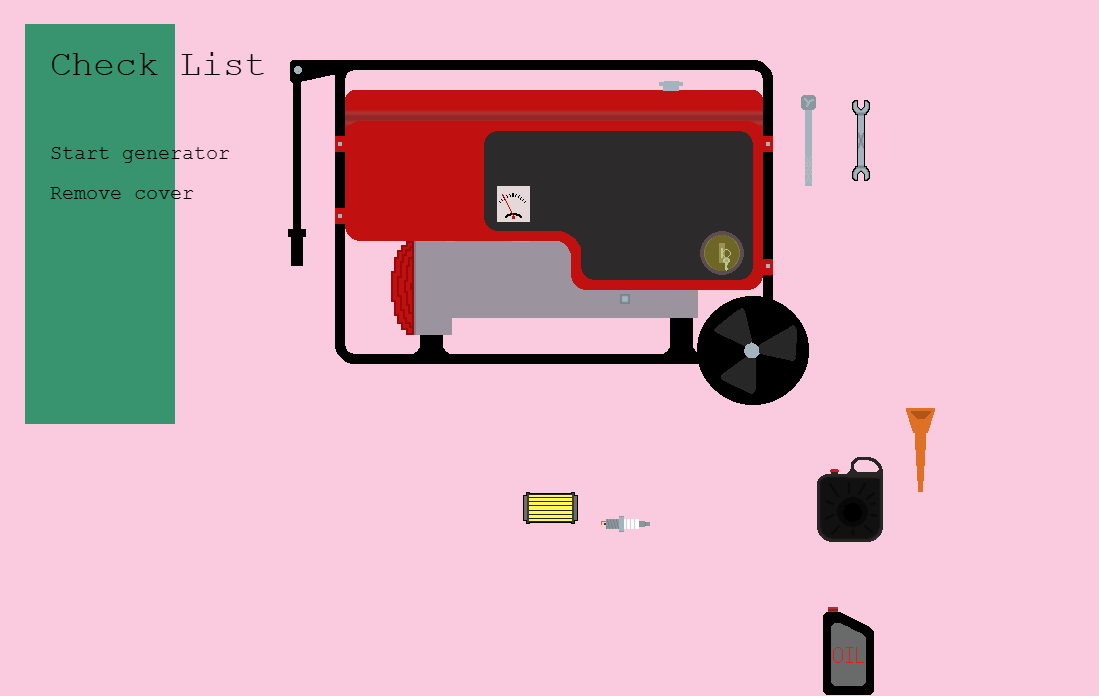
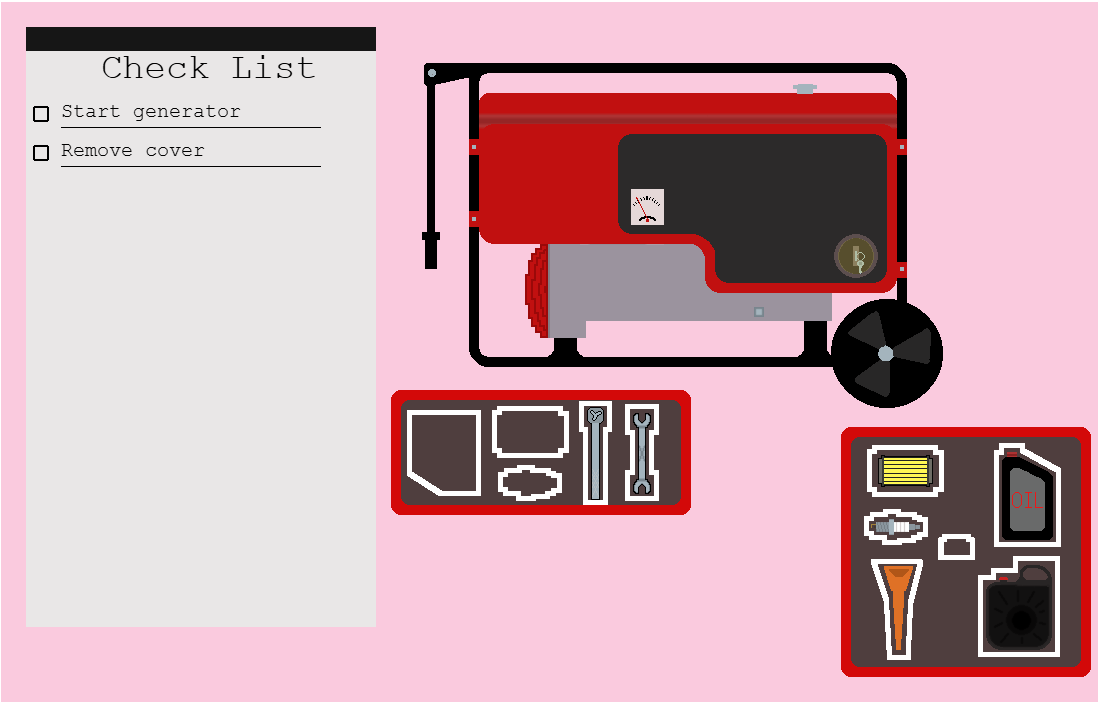
Added placemat for tools, dirty airfilter, and dirty sparkplug

diff --git a/src/prefabs/generator.js b/src/prefabs/generator.js
@@ -54,6 +54,7 @@ class Generator extends Phaser.GameObjects.Sprite {
         this.socketWrenchSound = this.scene.sound.add('socketwrench', {loop: true});
 
         this.placematParts = this.scene.add.sprite(840, 425, 'placematParts').setOrigin(0);
+        this.placematTools = this.scene.add.sprite(540, 450, 'placematTools');
 
         //Key mechanics add interative circle and progress circle
         this.keyhole = this.scene.add.circle(width * .78 - 3, 254, 18, 0xffff00, .25).setInteractive().setDepth(101);
@@ -113,13 +114,13 @@ class Generator extends Phaser.GameObjects.Sprite {
         this.airFilterDirty = this.scene.add.sprite(this.generatorImage.x -161, this.generatorImage.y + 105, 'airFilter', 2).setInteractive().setOrigin(0.5, 0);
         this.airFilterClean = this.scene.add.sprite(this.placematParts.x + 64, this.placematParts.y + 25, 'airFilter', 0).setInteractive().setOrigin(0.5, 0);
         //create targets needs to show where player needs to place x item
-        this.targetairFilterDirty = this.scene.add.rectangle(525, 450, 60, 40, 0xffff00, 0.90).setVisible(false);
+        this.targetairFilterDirty = this.scene.add.rectangle(this.placematTools.x - 10, this.placematTools.y - 20, 60, 40, 0xffff00, 0.90).setVisible(false);
         this.targetairFilterClean = this.scene.add.rectangle(this.generatorImage.x - 161, this.generatorImage.y + 125, 60, 40, 0xffff000, 0.90).setVisible(false);
 
         //Air filter cover
         this.airFilterCover = this.scene.add.sprite(this.generatorImage.x - 159, this.generatorImage.y + 91, 'airFilterCover').setInteractive().setOrigin(0.5, 0);
         //create targets needs to show where player needs to place x item
-        this.targetairFilterCoverOFF = this.scene.add.rectangle(450, 450, 70, 80, 0xffff000, 0.90).setVisible(false);
+        this.targetairFilterCoverOFF = this.scene.add.rectangle(this.placematTools.x - 97, this.placematTools.y - 40, 70, 80, 0xffff000, 0.90).setOrigin(0.5, 0).setVisible(false);
         this.targetairFilterCoverON = this.scene.add.rectangle(this.generatorImage.x - 159, this.generatorImage.y + 91, 70, 80, 0xffff000, 0.90).setOrigin(0.5, 0).setVisible(false);
 
 
@@ -133,11 +134,11 @@ class Generator extends Phaser.GameObjects.Sprite {
         this.sparkplug = this.scene.add.sprite(this.placematParts.x + 54, this.placematParts.y + 100, 'sparkplug', 0).setInteractive();
         this.targetsparkplug = this.scene.add.rectangle(this.generatorImage.x - 20, this.generatorImage.y + 120, 60, 30, 0xffff00, 0.90).setVisible(false);
         this.sparkplugDirty = this.scene.add.sprite(this.generatorImage.x - 20, this.generatorImage.y + 120, 'sparkplug', 2).setInteractive().setVisible(false).setDepth(50);
-        this.targetsparkplugDirty = this.scene.add.rectangle(525, 500, 60, 30, 0xffff00, 0.90).setVisible(false);
+        this.targetsparkplugDirty = this.scene.add.rectangle(this.placematTools.x - 10, this.placematTools.y + 30, 60, 30, 0xffff00, 0.90).setVisible(false);
         this.sparkplugCover = this.scene.add.sprite(this.generatorImage.x - 20, this.generatorImage.y + 133, 'sparkplugCover', 0).setInteractive();
-        this.socketWrench = this.scene.add.sprite(600, 400, 'socketWrench', 0).setInteractive().setOrigin(0.15, 0.1);
+        this.socketWrench = this.scene.add.sprite(this.placematTools.x + 46, this.placematTools.y - 40, 'socketWrench', 0).setInteractive().setOrigin(0.15, 0.1);
         this.targetsocketWrench = this.scene.add.rectangle(this.generatorImage.x - 30, this.generatorImage.y + 133, 20, 20, 0xffff00, 0.90).setVisible(false);
-        this.targetsocketWrenchTwo = this.scene.add.rectangle(600, 400, 26, 106, 0xffff00, 0.90).setVisible(false).setOrigin(0.15, 0.1);
+        this.targetsocketWrenchTwo = this.scene.add.rectangle(this.placematTools.x + 46, this.placematTools.y - 40, 26, 106, 0xffff00, 0.90).setVisible(false).setOrigin(0.15, 0.1);
 
         //Input for turning socket wrench
         this.socketWrench.on('pointerdown', (pointer) => {
@@ -171,9 +172,9 @@ class Generator extends Phaser.GameObjects.Sprite {
         this.bolt = this.scene.add.sprite(this.generatorImage.x + 75, this.generatorImage.y + 260, 'bolt', 0);
         //this.targetbolt = this.scene.add.rectangle(this.generatorImage.x + 75, this.generatorImage.y + 260, 14, 14, 0xffff00, 0.90).setVisible(false);
         //this.targetboltTwo = this.scene.add.rectangle(900, 300, 14, 14, 0xffff00, 0.90).setVisible(false);
-        this.wrench = this.scene.add.sprite(650, 400, 'wrench', 0).setInteractive().setOrigin(0.15, 0.1).setDepth(50);
+        this.wrench = this.scene.add.sprite(this.placematTools.x + 90, this.placematTools.y - 40, 'wrench', 0).setInteractive().setOrigin(0.15, 0.1).setDepth(50);
         this.targetwrench = this.scene.add.rectangle(this.generatorImage.x + 75, this.generatorImage.y + 260, 14, 14, 0xffff00, 0.90).setVisible(false);
-        this.targetwrenchTwo = this.scene.add.rectangle(650, 400, 30, 106, 0xffff00, 0.90).setVisible(false).setOrigin(0.15, 0.1);
+        this.targetwrenchTwo = this.scene.add.rectangle(this.placematTools.x + 90, this.placematTools.y - 40, 30, 106, 0xffff00, 0.90).setVisible(false).setOrigin(0.15, 0.1);
         this.oilDrainPan = this.scene.add.sprite(this.placematParts.x + 178, this.placematParts.y + 180, 'oilDrainPan', 0).setInteractive();
         this.targetoilDrainPan = this.scene.add.rectangle(750, 400, 50, 50, 0xffff00, 0.90).setVisible(false);
         this.funnel = this.scene.add.sprite(this.placematParts.x + 57, this.placematParts.y + 230, 'funnel', 0).setInteractive().setOrigin(0.5, 1);
@@ -485,8 +486,8 @@ class AirFilterState extends State {
         //If gameobject is airFilterCover and it is over its target in clean or dirty stage will snap to correct position and increase airFilterStep counter
         if(gameObject === generator.airFilterCover && generator.airFilterStep === 0) {
                 if(Phaser.Geom.Intersects.RectangleToRectangle(generator.airFilterCover.getBounds(), generator.targetairFilterCoverOFF.getBounds())) {
-                    generator.airFilterCover.x = generator.targetairFilterCoverOFF.x
-                    generator.airFilterCover.y = generator.targetairFilterCoverOFF.y - 25
+                    generator.airFilterCover.x = generator.targetairFilterCoverOFF.x;
+                    generator.airFilterCover.y = generator.targetairFilterCoverOFF.y;
                     generator.airFilterCover.disableInteractive();
                     console.log("Air Filter Cover snapped into place");
                     generator.airFilterStep++;
@@ -515,8 +516,8 @@ class AirFilterState extends State {
         //If gameobject is airFilterDirty and it is over its target will snap to correct position and increase airFilterStep counter
         if(gameObject === generator.airFilterDirty) {
             if(Phaser.Geom.Intersects.RectangleToRectangle(generator.airFilterDirty.getBounds(), generator.targetairFilterDirty.getBounds())) {
-                generator.airFilterDirty.x = generator.targetairFilterDirty.x
-                generator.airFilterDirty.y = generator.targetairFilterDirty.y - 25
+                generator.airFilterDirty.x = generator.targetairFilterDirty.x;
+                generator.airFilterDirty.y = generator.targetairFilterDirty.y - 20;
                 generator.airFilterDirty.disableInteractive();
                 console.log("Air Filter Dirty snapped into place");
                 generator.airFilterStep++;
@@ -806,18 +807,10 @@ class OilState extends State {
         }
 
         if(generator.oilStep === 3) {
-            /*generator.scene.time.addEvent({
-                delay: 5000,
-                callback: () => {
-                    generator.scene.dirtyOil
-                },
-                callbackScope: this,
-                loop: false
-            })*/
             if(Phaser.Geom.Intersects.RectangleToRectangle(generator.wrench.getBounds(), generator.targetwrenchTwo.getBounds())) {
                 generator.targetwrench.setVisible(false);
-                generator.wrench.x = generator.targetwrenchTwo.x - 10;
-                generator.wrench.y = generator.targetwrenchTwo.y - 5;
+                generator.wrench.x = generator.targetwrenchTwo.x;
+                generator.wrench.y = generator.targetwrenchTwo.y;
                 generator.oilStep++;
                 generator.scene.input.setDraggable(generator.wrench, false);
                 generator.wrench.setInteractive();
@@ -829,8 +822,8 @@ class OilState extends State {
         if(gameObject === generator.wrench && generator.oilStep === 5) {
             if(Phaser.Geom.Intersects.RectangleToRectangle(generator.wrench.getBounds(), generator.targetwrenchTwo.getBounds())) {
                 generator.targetwrenchTwo.setVisible(false);
-                generator.wrench.x = 650;
-                generator.wrench.y = 400;
+                generator.wrench.x = generator.targetwrenchTwo.x;
+                generator.wrench.y = generator.targetwrenchTwo.y;
                 generator.oilStep++;
                 generator.wrench.disableInteractive();
                 generator.wrench.stop();

diff --git a/src/scenes/postcardGame.js b/src/scenes/postcardGame.js
@@ -14,6 +14,7 @@ class PostcardGame extends Phaser.Scene {
         this.load.image('checklist', 'checklist.png');
         this.load.image('exhaust', 'exhaust.png');
         this.load.image('placematParts', 'placematParts.png');
+        this.load.image('placematTools', 'placematTools.png');
 
         //Sparkplug
         this.load.spritesheet('sparkplug', '/Sparkplug.png', {frameWidth: 60, frameHeight: 30});
